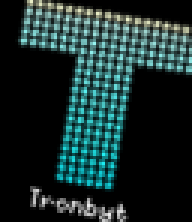
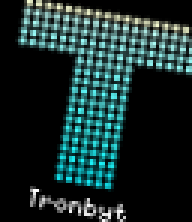
perf(filter): improve rotate/shear filters

Changed region(s): [[0.0938, 0.0, 1.0, 0.8649], [0.1562, 0.8378, 0.6875, 1.0], [0.625, 0.5946, 0.6562, 0.6216]]

diff --git a/render/filter/rotate.go b/render/filter/rotate.go
@@ -4,7 +4,6 @@ import (
 	"image"
 	"math"
 
-	"github.com/anthonynsimon/bild/transform"
 	"github.com/tronbyt/gg"
 	"github.com/tronbyt/pixlet/render"
 )
@@ -47,9 +46,21 @@ func (r Rotate) PaintBounds(bounds image.Rectangle, frameIdx int) image.Rectangl
 }
 
 func (r Rotate) Paint(dc *gg.Context, bounds image.Rectangle, frameIdx int) {
-	paint(dc, r.Widget, bounds, frameIdx, func(img image.Image) image.Image {
-		// Rotate returns an image.RGBA, resizing options can be passed.
-		// passing ResizeBounds: true so the image expands to fit the rotated content.
-		return transform.Rotate(img, r.Angle, &transform.RotationOptions{ResizeBounds: true})
-	})
+	cb := r.Widget.PaintBounds(bounds, frameIdx)
+
+	// Calculate center of the provided (expanded) bounds
+	cx := float64(bounds.Min.X) + float64(bounds.Dx())/2.0
+	cy := float64(bounds.Min.Y) + float64(bounds.Dy())/2.0
+
+	dc.Push()
+
+	// Move to center, rotate, then move back by half the child's size.
+	// This places the child's center at the center of the bounds.
+	dc.Translate(cx, cy)
+	dc.Rotate(gg.Radians(r.Angle))
+	dc.Translate(float64(-cb.Dx())/2.0, float64(-cb.Dy())/2.0)
+
+	// Paint child at (0,0) relative to the transformed origin
+	r.Widget.Paint(dc, image.Rect(0, 0, cb.Dx(), cb.Dy()), frameIdx)
+	dc.Pop()
 }

diff --git a/render/filter/shear.go b/render/filter/shear.go
@@ -4,7 +4,6 @@ import (
 	"image"
 	"math"
 
-	"github.com/anthonynsimon/bild/transform"
 	"github.com/tronbyt/gg"
 	"github.com/tronbyt/pixlet/render"
 )
@@ -53,13 +52,30 @@ func (s Shear) PaintBounds(bounds image.Rectangle, frameIdx int) image.Rectangle
 }
 
 func (s Shear) Paint(dc *gg.Context, bounds image.Rectangle, frameIdx int) {
-	paint(dc, s.Widget, bounds, frameIdx, func(img image.Image) image.Image {
-		if s.XAngle != 0 {
-			img = transform.ShearH(img, s.XAngle)
-		}
-		if s.YAngle != 0 {
-			img = transform.ShearV(img, s.YAngle)
-		}
-		return img
-	})
+	cb := s.Widget.PaintBounds(bounds, frameIdx)
+
+	// Calculate center of the provided (expanded) bounds
+	cx := float64(bounds.Min.X) + float64(bounds.Dx())/2.0
+	cy := float64(bounds.Min.Y) + float64(bounds.Dy())/2.0
+
+	sx := 0.0
+	sy := 0.0
+
+	if s.XAngle != 0 {
+		sx = -math.Tan(s.XAngle * math.Pi / 180)
+	}
+	if s.YAngle != 0 {
+		sy = -math.Tan(s.YAngle * math.Pi / 180)
+	}
+
+	dc.Push()
+
+	// Move to center, shear, then move back by half the child's size.
+	dc.Translate(cx, cy)
+	dc.Shear(sx, sy)
+	dc.Translate(float64(-cb.Dx())/2.0, float64(-cb.Dy())/2.0)
+
+	// Paint child at (0,0) relative to the transformed origin
+	s.Widget.Paint(dc, image.Rect(0, 0, cb.Dx(), cb.Dy()), frameIdx)
+	dc.Pop()
 }
